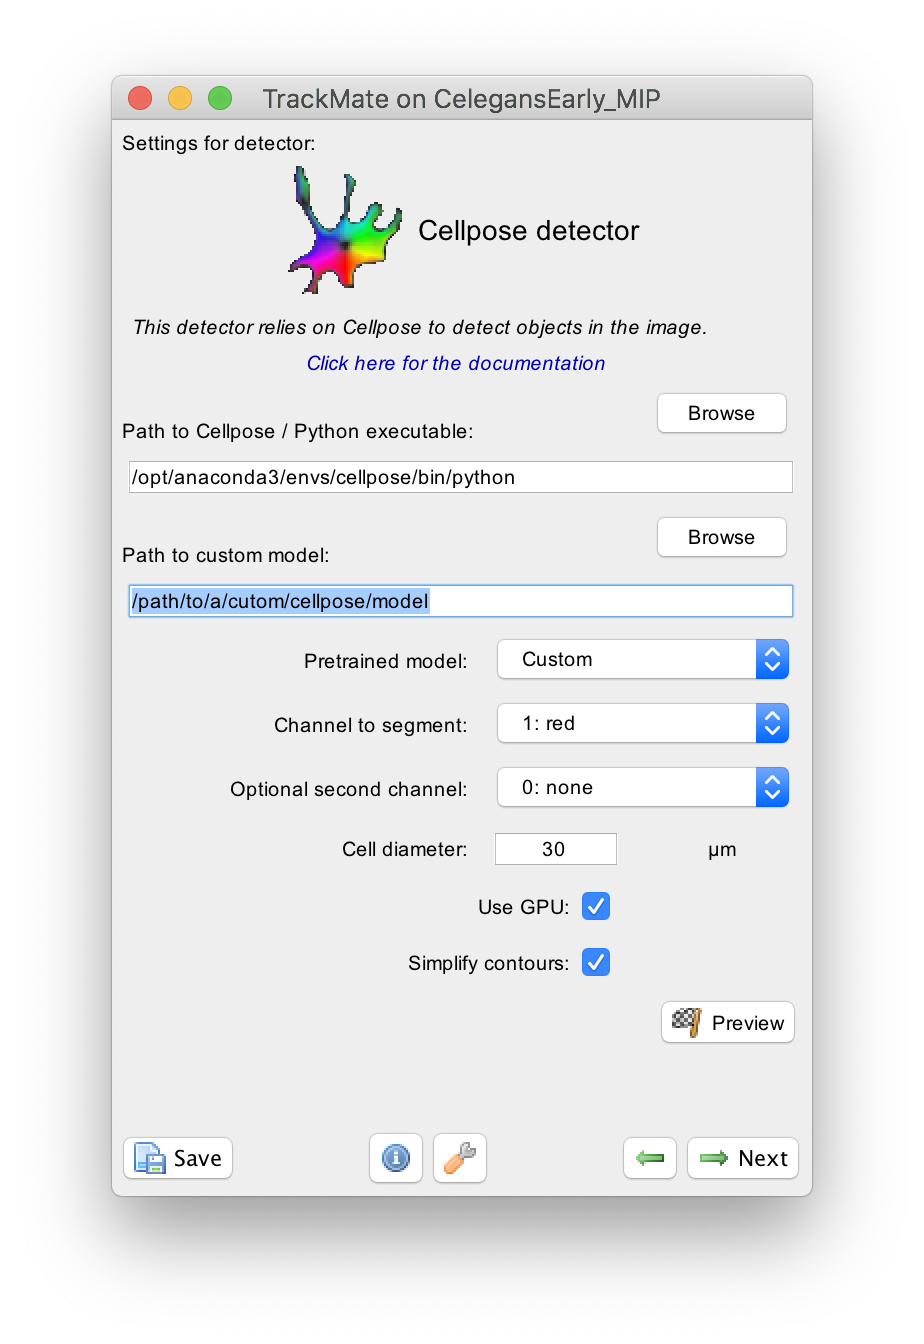
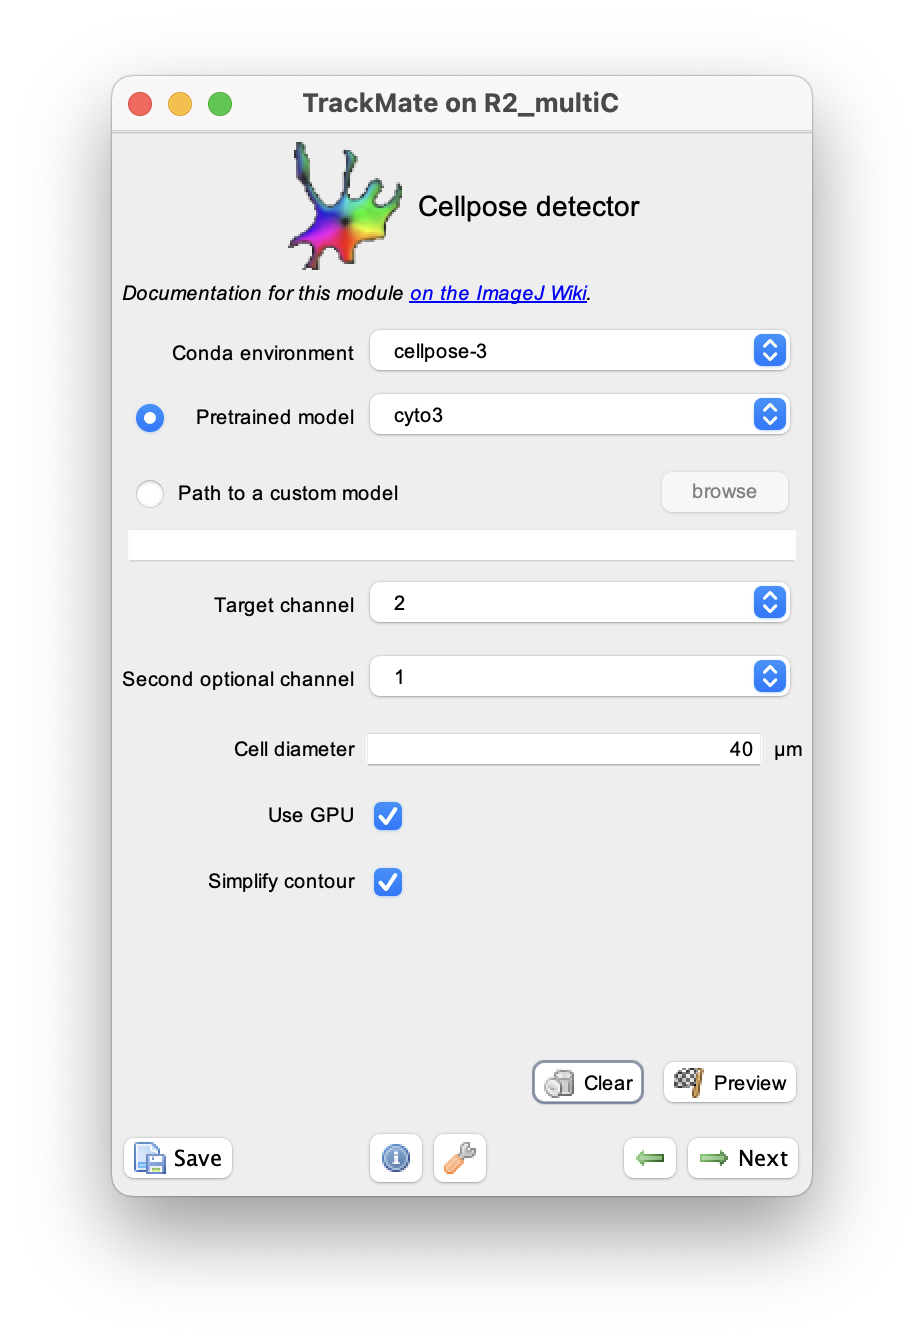
Rework the Cellpose 3 detector integration for TrackMate v8.

diff --git a/_pages/plugins/trackmate/detectors/trackmate-cellpose.md b/_pages/plugins/trackmate/detectors/trackmate-cellpose.md
@@ -50,45 +50,41 @@ This is documented [on this page](/plugins/trackmate/trackmate-conda-path).
 {% include img src="/media/plugins/trackmate/detectors/cellpose/trackmate-cellpose-ui-01.png" align='center' width='300' %}
 We document these parameters from top to bottom in the GUI.
 
-<!---
+
 ##### `Conda environment`
 
-Specify in what conda environment you installed Cellpose-SAM. 
-If you get an error at this stage, it is likely because the conda path for TrackMate was not configured properly. Check [this page]((/plugins/trackmate/trackmate-conda-path).
--->
+Specify in what conda environment you installed Cellpose (the v3.1.1 in the case of this detector). 
+If you get an error at this stage, it is likely because the conda path for TrackMate was not configured properly. 
+Again, check [this page]((/plugins/trackmate/trackmate-conda-path) if this happens.
 
-##### `Path to cellpose / Python executable`
-
-We must specify where is the cellpose executable, as it was installed outside of Fiji. Because there are several ways of installing cellpose (with Conda or using the precompiled executables), we have to accommodate several cases we document [later in this document](#installing-cellpose). Briefly:
-
-- If you installed cellpose via the precompiled executables, enter the _path to the executable_. For instance:  `C:\Users\tinevez\Applications\cellpose.exe`
-- If you installed cellpose via Conda, enter the _path to the Python executable of the Conda environment you created for cellpose_. For instance: `C:\Users\tinevez\anaconda3\envs\cellpose\python.exe`
 
 ##### `Pretrained model`
-Right now we only support three pretrained models of cellpose:
-- the `cyto` model ("Cytoplasm"), to segment cells stained for their cytoplasm;
-- the `nuclei` model ("Nuclei") to segment cell nuclei;
-- the `cyto2` model ("Cytoplasm 2.0"), which is the `cyto` model augmented with user-submitted images.
-- the `live cell` model from Cellpose was trained on the `LIVECELL` [dataset](https://sartorius-research.github.io/LIVECell/) of label free images of cells. 
-- the `TissueNet` model from Cellpose was trained on the `TissueNet` [dataset](https://datasets.deepcell.org/data) available from deepcell.
-- "Custom" lets you specify a custom model you would have trained or downloaded, which is documented below.
+
+This list lets you select the pretrained models that were shipped with Cellpose 3.
+They are dully documented in details on the [Cellpose doc website](https://cellpose.readthedocs.io/en/v3.1.1.1/models.html).
+The 'main' ones are:
+
+- the `cyto3` model, that excels at segmenting cells stained for their cytoplasm. This model supports the specification of a second channel (see below) where nuclei are stained, to guide cell sgmentation.
+- the `nuclei` model, trained to segment cell nuclei.
+
 
 ##### `Path to custom model`
 
-If in the `Pretrained model` selection you pick `Custom`, a text field will appear above, allowing for entering the path to a custom cellpose model. You need to browse to the actually model file generated by the training. For instance: `D:\Projects\Brightfield\Cellpose model 171121-20211118T111402Z-001\171121\cellpose_residual_on_style_on_concatenation_off_train_folder_2021_11_17_19_45_23.398850`
+There are radio buttons before the `Pretrained model` and `Path to custom model` that lets you select whether you want to use a pretrained model, or a custom one.
+When `Path to custom model` is selected, you need to browse to the actual model file.
 
 Note that it must be the an `absolute path` to the file.
 
-##### `Channel to segment`
+##### `Target channel`
 
 If your image has several color channels, choose here the channel to segment. The number of the channel corresponds to the _imagej channel_ in your image. 
 It should be the channel where the cytoplam staining is for cell segmentation, or the nuclei staining for nuclei segmentation, e.g. with the `nuclei` model.
 
 Note that TrackMate doesn't handle RGB stacks so you might need to convert your image if it is not already a composite image (see below for [tip on how to pass RGB images to TrackMate-Cellpose](#tip-passing-rgb-images-to-trackmate-for-cellpose))
 
-##### `Optional second channel`
+##### `Second optional channel`
 
-The `cyto` and `cyto2` pretrained models have been trained on images with a second channels in which the cell nuclei were labeled. It is used as a seed to make the detection of single cells more robust.
+The `cyto3` (and `cyto2` and `cyto`) pretrained models have been trained on images with a second channels in which the cell nuclei were labeled. It is used as a seed to make the detection of single cells more robust.
 It is optional and this parameter specifies in which channel are the nuclei (the number of the imagej channel of the nuclei). Use '0' to skip using the second optional channel.
 For the `nuclei` model, this parameter is ignored.
 
@@ -97,9 +93,19 @@ For the `nuclei` model, this parameter is ignored.
 cellpose can exploit an _a priori_ knowledge on the size of cells. If you have a rough estimate of the size of the cell, enter it here. In TrackMate this parameter must be specified in physical units (for instance µm if the source image has a pixel size expressed in µm).
 Enter the value '0' to have cellpose automatically determine the cell size estimate.
 
+_Careful!_ I insist a bit on this point.
+If you are used to running Cellpose from the Cellpose UI or a Python script, it expects the diameter to be in pixels. 
+But here in TrackMate, _the diameter is in the spatial units of your image_.
+
 ##### `Use GPU`
 
-If this box is checked, the GPU will be used _if cellpose was installed with required librairies and hardware to use the GPU_. If the GPU support is absent or incorrect, this setting will be safely ignored and the computation will rely on CPU only. Unchecking the box will force cellpose to use the CPU even if GPU support is available.
+If this box is checked, the GPU will be used _if cellpose was installed with required librairies and hardware to use the GPU_. 
+If the GPU support is absent or incorrect, this setting will be safely ignored and the computation will rely on CPU only. 
+Unchecking the box will force cellpose to use the CPU even if GPU support is available.
+
+We took special care to implement multi-threaded processing if you use CPU.
+With this setting, there will be one Cellpose process running per thread you set in the _Edit > Options > Memory and Threads..._ configuration ("Parallel Threads for stacks").
+And then each image corresponding to the time-points will be dispatched automatically to these multiple processes, running concurrently.
 
 ##### `Simplify contours`
 
@@ -108,11 +114,11 @@ If this box is checked, the contour outlines generated by the masks returned by 
 
 ### (Re)Training of a cellpose model
 
-To optimize CellPose on your data, you can retrain one its model and use it in TrackMate-CellPose. You can do the retraining easily through [CellPose 2.0 GUI](https://www.nature.com/articles/s41592-022-01663-4). When the model gives acceptable results, select it in TrackMate interface with the `custom_model` parameter. 
+To optimize CellPose on your data, you can retrain one its model and use it in TrackMate-CellPose. You can do the retraining easily through [CellPose 2.0 GUI](https://www.nature.com/articles/s41592-022-01663-4). When the model gives acceptable results, select it in TrackMate interface with the `Path to custom model` parameter. 
 
+<!---
 Note that in 3D stacks, it can be worth it to create xy, yz and xz images of the stack corrected for anisotropy and to draw annotations on it to train the model to make it more performant for the segmentation with the `3D mode`.
-
-
+--->
 
 
 ## Tutorials
@@ -136,15 +142,21 @@ In the second panel, select the **cellpose detector**:
 
 then click the `Next` button. You should see the configuration panel for cellpose. 
 
-{% include img src="/media/plugins/trackmate/detectors/cellpose/trackmate-cellpose-tutorial-03" align='center' width='300' %}
+{% include img src="/media/plugins/trackmate/detectors/cellpose/trackmate-cellpose-ui-01.png" align='center' width='300' %}
 
-We want to segment the touching cells and obtain their contour. So we will use the **Cytoplasm** model. The cytoplasm is imaged in the second channel (it happens to use the green LUT, but it would not matter) so we enter **2** for the `Channel to segment` parameter. The channel **1** contains the nuclei so we can specify it in the `Optional second channel` parameter. Finally, we can measure a rough estimate of the cell size using ImageJ ROI tools, which is about **40 µm**, and enter this value in the `Cell diameter` field.
+On the `Conda environment` select the name of the environment Cellpose 3 is installed (**cellpose-3** in the example above).
+We want to segment the touching cells and obtain their contour. So we will use the **cyto3** model, to be selected in the `Pretrained model` list. 
+The cytoplasm is imaged in the second channel (it happens to use the green LUT, but it would not matter) so we enter **2** for the `Target channel` parameter. 
+The channel **1** contains the nuclei so we can specify it in the `Second optional channel` parameter. 
+Finally, we can measure a rough estimate of the cell size using ImageJ ROI tools, which is about **40 µm**, and enter this value in the `Cell diameter` field.
 
-The movie is quite big, and will take several minutes to process using only the CPU (on my Mac it takes about 20 minutes without multithreading). Having a cellpose installation with GPU support really accelerate segmentation, but this is not available on Mac. Instead, for  we developed TrackMate-cellpose so that on Mac, it can accelerate processing using multithreading. CPU multithreading is used only on Mac and if the `Use GPU` box is unchecked, which is why it is the case on the image above.
+The movie is quite big, and will take several minutes to process using only the CPU (on my Mac it takes about 20 minutes without multithreading). 
+Having a cellpose installation with GPU support really accelerate segmentation.
 
 Finally, for this movie we want the cell contour to follow the pixels of the masks generated by cellpose, so we unchecked the `Simplify contour` box.
 
-Then we are ready to launch segmentation. Click the `Next` button. The log window will echo the messages from cellpose. On a windows machine with GPU support, the detection step takes about 2 minutes. On a Mac with multithreading using 8 cores, it takes about 4 minutes.
+Then we are ready to launch segmentation. Click the `Next` button. The log window will echo the messages from cellpose. On a windows machine with GPU support, the detection step takes about 2 minutes. 
+On a 2022 MacBook Pro using GPU, it takes about 4 minutes.
 
 The **Initial thresholding** reports the quality histogram for all detections. Here, the quality is just the area of detections in pixel units. We see that there are some detections with very little size, probably for spurious objects. We can filter them out by setting a threshold value around 220.
 
@@ -174,7 +186,11 @@ Another key advantage of cellpose is that it is relatively easy and fast to trai
 
 {% include img src="/media/plugins/trackmate/detectors/cellpose/trackmate-cellpose-tutorial-b-01" align='center' width='400' %}
 
-For instance the cells above were imaged in bright-field at high resolution. They are Glioblastoma-astrocytoma U373 cells migrating on a polyacrylamide gel. They have a rather complex shape and a low contrast. The segmentation of cells in such images is normally difficult with classical image processing techniques. In the following we will use the trackMate-Cellpose intragration to segment and track them. Our goal is to see if we discriminate between two types of cell locomotion based on dynamics and morphological features of single cells. We will see how to give more robustness to the analysis by filtering out some detections close to image border.
+For instance the cells above were imaged in bright-field at high resolution. 
+They are Glioblastoma-astrocytoma U373 cells migrating on a polyacrylamide gel. 
+They have a rather complex shape and a low contrast. 
+The segmentation of cells in such images is normally difficult with classical image processing techniques. In the following we will use the TrackMate-Cellpose intragration to segment and track them. 
+Our goal is to see if we discriminate between two types of cell locomotion based on dynamics and morphological features of single cells. We will see how to give more robustness to the analysis by filtering out some detections close to image border.
 
 The data can be obtained from Zenodo:
 
@@ -183,18 +199,17 @@ The data can be obtained from Zenodo:
 The dataset contains a custom cellpose model. We have trained a it using the [ZeroCostDL4Mic platform](https://github.com/HenriquesLab/ZeroCostDL4Mic/wiki). This cellpose model was trained for 500 epochs on 214 paired image patches (image dimensions: 520x 696), with a batch size of 8, using the [Cellpose ZeroCostDL4Mic notebook (v 1.13)](https://colab.research.google.com/github/HenriquesLab/ZeroCostDL4Mic/blob/master/Colab_notebooks/Beta%20notebooks/Cellpose_2D_ZeroCostDL4Mic.ipynb). The cellpose `cyto2` model was used as a training starting point. The training was accelerated using a Tesla K80 GPU.
 
 To use the model you need to unzip the `Cellpose model 171121-20211118T111402Z-001.zip` file. The cellpose model file itself is the `cellpose_residual_on_style_on_concatenation_off_train_folder_2021_11_17_19_45_23.398850` file in the `171121` folder.
-We can use it in TrackMate by specifying "Custom" as a model in the interface:
+We can use it in TrackMate by checking the radio button in front of the `Path to a custom model` parameter:
 {% include img src="/media/plugins/trackmate/detectors/cellpose/trackmate-cellpose-tutorial-b-02" align='center' width='350' %}
 
-Here I am running TrackMate on a Windows machine, and I used the cellpose installation recommended by BIOP people ([see below](#biop-conda-installation-for-gpu-support-on-windows)). So in the `Path to cellpose / Python executable` I have: `C:\Users\tinevez\anaconda3\envs\cellpose_biop_gpu\python.exe` 
-
-As `Pretrained model` I picked **Custom** and in the `Path to custom model` text field I entered the path to the model file (in this case, ending in `.398850`).
+For the `Path to a custom model` parameter, I browsed to the model file (in this case, ending in `.398850`).
 
 There is only one channel, so I used **0** for both the target and optional channels. The cell size measured with ImageJ is about 60 µm.
 
-On this Windows machine and with this cellpose installation I have GPU support, so I left the corresponding box checked. Later we will measure shape descriptors for the cell, so it is important to simplify their contours, and the corresponding box is also checked. 
+On a 2022 MacBook Pro used in this demo, the Cellpose installation have GPU support, so I left the corresponding box checked. 
+Later we will measure shape descriptors for the cell, so it is important to simplify their contours, and the corresponding box is also checked. 
 
-Clicking `Next` starts the segmentation. In my case it completes in about 1 minute. In the **Initial thresholding** panel, choose a threshold of 0 to include all detections in the next step. We get the following results displayed in the **Spot filter** panel:
+Clicking `Next` starts the segmentation. In my case it completes in about 30 seconds. In the **Initial thresholding** panel, choose a threshold of 0 to include all detections in the next step. We get the following results displayed in the **Spot filter** panel:
 
 {% include img src="/media/plugins/trackmate/detectors/cellpose/trackmate-cellpose-tutorial-b-03" width='300' %}
 {% include img src="/media/plugins/trackmate/detectors/cellpose/trackmate-cellpose-tutorial-b-04" width='300' %}
@@ -236,17 +251,17 @@ Then proceed as before for the tracking step and the plot generation. The area a
 
 {% include img src="/media/plugins/trackmate/detectors/cellpose/trackmate-cellpose-tutorial-b-11" width='600'  align='center' %}
 
-
+<!-----------
 ### 3D segmentation with cellpose
 
 A tutorial in the documentation for the [advanced version of the cellpose detector](trackmate-cellpose-advanced) demonstrates how to use cellpose for 3D cell segmentation and tracking.
-
+-------------->
 
 ## Additional informations
 
-### Tip: Passing RGB images to TrackMate for cellpose
+### Tip: Passing RGB images to TrackMate for Cellpose
 
-On the cellpose webiste you can find a collection of test images to test with cellpose. They will work with the TrackMate integration as well, but they are RGB images. TrackMate does not support RGB images. So we give here a short optional procedure on how to feed RGB images to TrackMate and have them still segmented by cellpose as expected. Again, if you don't have RGB images as input, you can skip this section.
+On the Cellpose website you can find a collection of test images to test with cellpose. They will work with the TrackMate integration as well, but they are RGB images. TrackMate does not support RGB images. So we give here a short optional procedure on how to feed RGB images to TrackMate and have them still segmented by cellpose as expected. Again, if you don't have RGB images as input, you can skip this section.
 
 cellpose can and does work with RGB images. They are single-channel but encode red, green and blue components of each pixel in one value, effectively behaving as a 3-channels 8-bit image. However, TrackMate cannot deal with RGB images. If you launch TrackMate with an RGB image you will receive an error message. The workaround is to convert them to a proper 3-channels 8-bit image before running TrackMate. cellpose will be able to run with them anyway. Here is how to do it. 
 
@@ -264,13 +279,13 @@ cellpose can and does work with RGB images. They are single-channel but encode r
 {% include img src="/media/plugins/trackmate/detectors/cellpose/trackmate-cellpose-convert-rgb-04.png" %}
 {% include img src="/media/plugins/trackmate/detectors/cellpose/trackmate-cellpose-convert-rgb-05.png" %}
 
-### Installing cellpose
+### Installing Cellpose
 
 {% include notice icon="tech"
   content="This is the recommended way to install Python tools to be used with TrackMate." %}
 
   {% include notice icon="tech"
-  content="From now on we support **cellpose 3** in TrackMate. It is great, simple to install, and has GPU acceleration on all modern platforms." %}
+  content="This detector supports **Cellpose 3** in TrackMate. It is great, simple to install, and has GPU acceleration on all modern platforms. There is a separate detector for **Cellpose SAM**, linked above." %}
 
 You need to have conda (or mamba) installed on your system. 
 Any flavor (Anaconda, miniconda, miniforge, mamba, micromamba, ... ) works, but if you have to install one, we recommend [miniforge](https://github.com/conda-forge/miniforge).
@@ -324,4 +339,4 @@ torch version:          2.8.0+cu126
 
 _____
 
-*Jean-Yves Tinevez - August 2025*
+*Jean-Yves Tinevez - December 2025*
